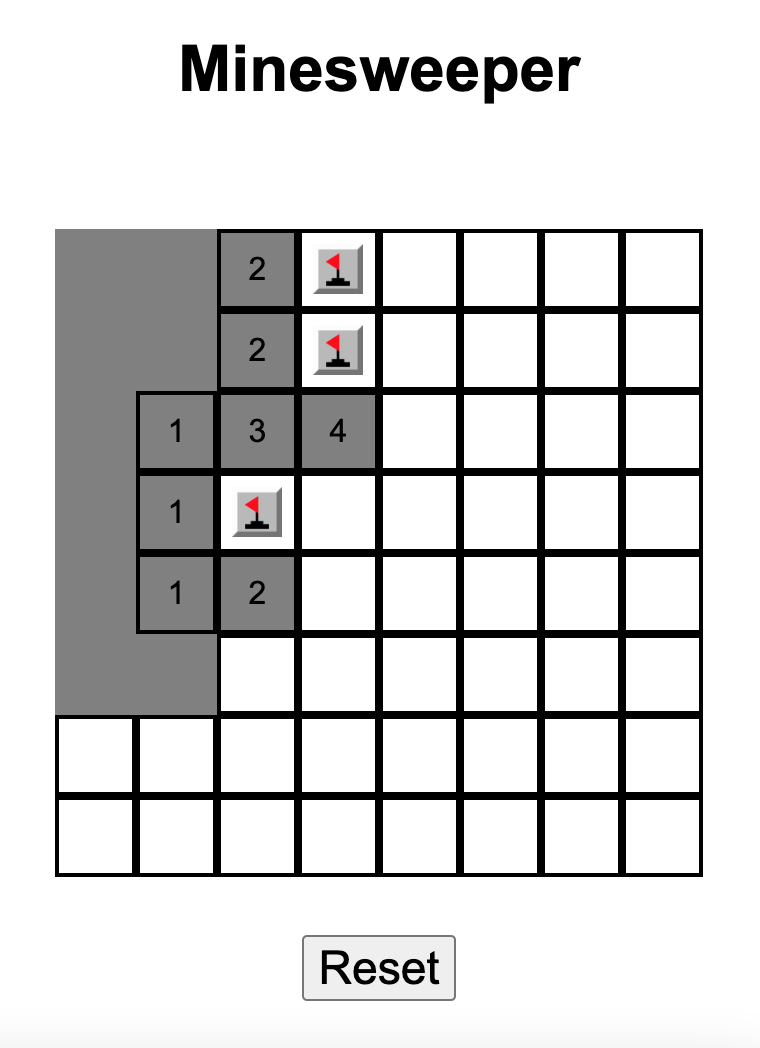
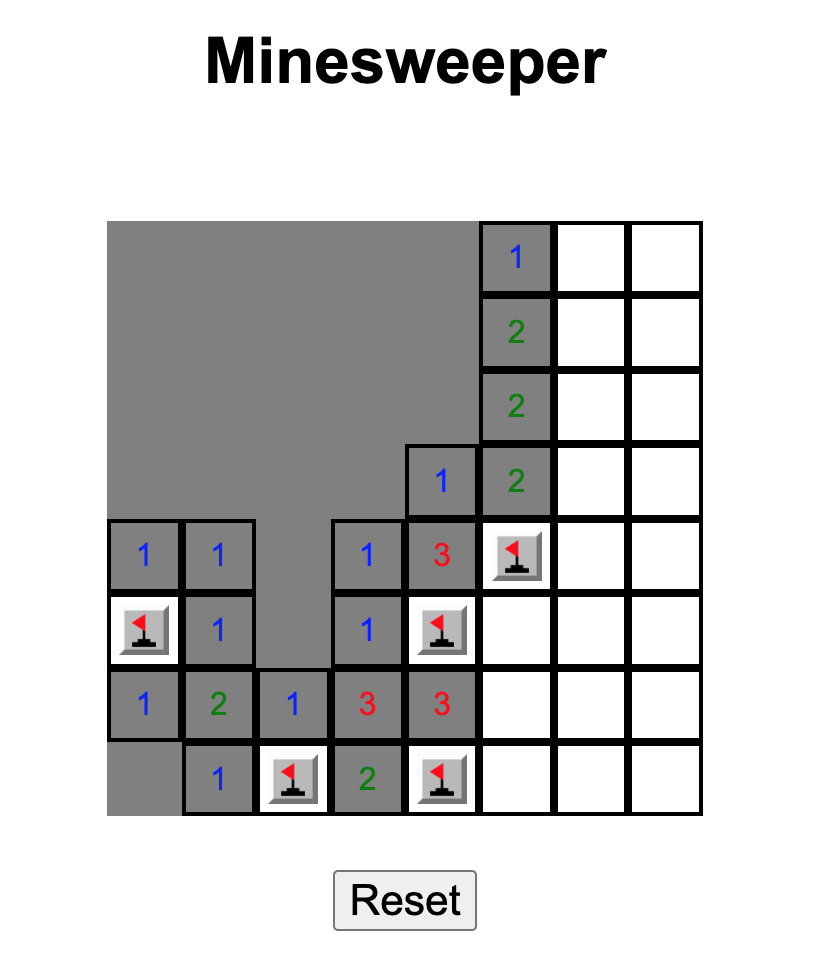
COLORS

diff --git a/js/main.js b/js/main.js
@@ -67,7 +67,7 @@ function renderMinefield() {
 function setAdjacentMineCount() {
         for (let r = 0; r < rows; r++) { 
             for (let c = 0; c < columns; c++) {
-                mineChecker(r, c);                
+                mineChecker(r, c);     
         }
     }
 };
@@ -145,6 +145,27 @@ function clickTile(evt) {
             } else {
                 evt.target.style.backgroundColor = "grey";
                 evt.target.innerText = minefieldTile[r][c].adjacentMineCount;
+                if (minefieldTile[r][c].adjacentMineCount == 1) {
+                    document.getElementById(`${r}-${c}`).style.color = "blue";
+                }          
+                if (minefieldTile[r][c].adjacentMineCount == 2) {
+                    document.getElementById(`${r}-${c}`).style.color = "green";
+                }          
+                if (minefieldTile[r][c].adjacentMineCount == 3) {
+                    document.getElementById(`${r}-${c}`).style.color = "red";
+                }          
+                if (minefieldTile[r][c].adjacentMineCount == 4) {
+                    document.getElementById(`${r}-${c}`).style.color = "purple";
+                }          
+                if (minefieldTile[r][c].adjacentMineCount == 5) {
+                    document.getElementById(`${r}-${c}`).style.color = "maroon";
+                }          
+                if (minefieldTile[r][c].adjacentMineCount == 6) {
+                    document.getElementById(`${r}-${c}`).style.color = "turquoise";
+                }          
+                if (minefieldTile[r][c].adjacentMineCount == 7) {
+                    document.getElementById(`${r}-${c}`).style.color = "magenta";
+                }          
             }
             winningTiles++;
             youWin();
